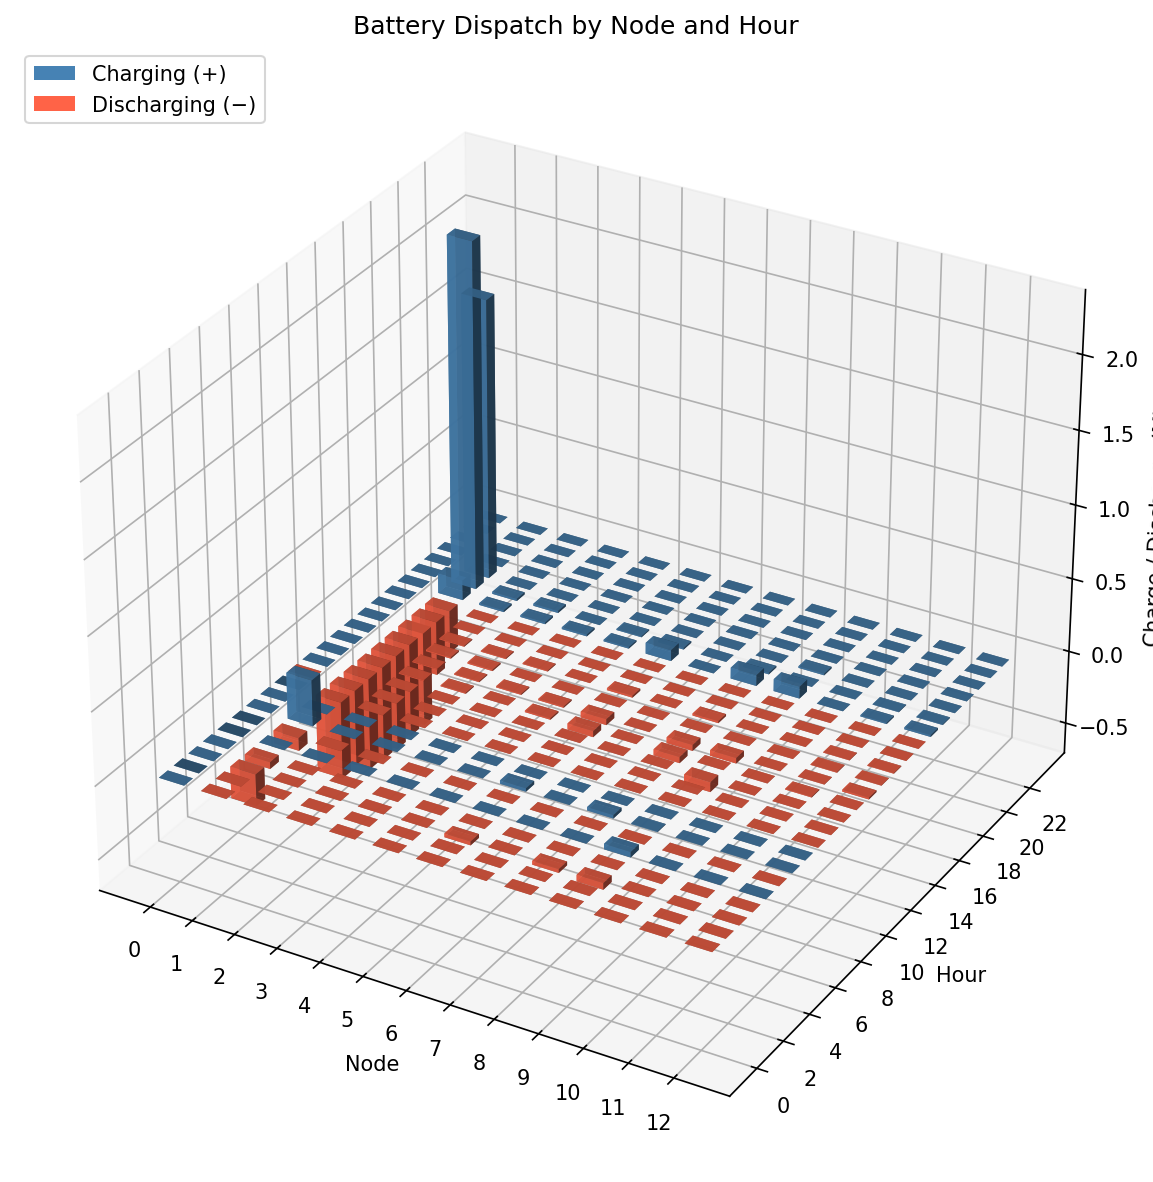
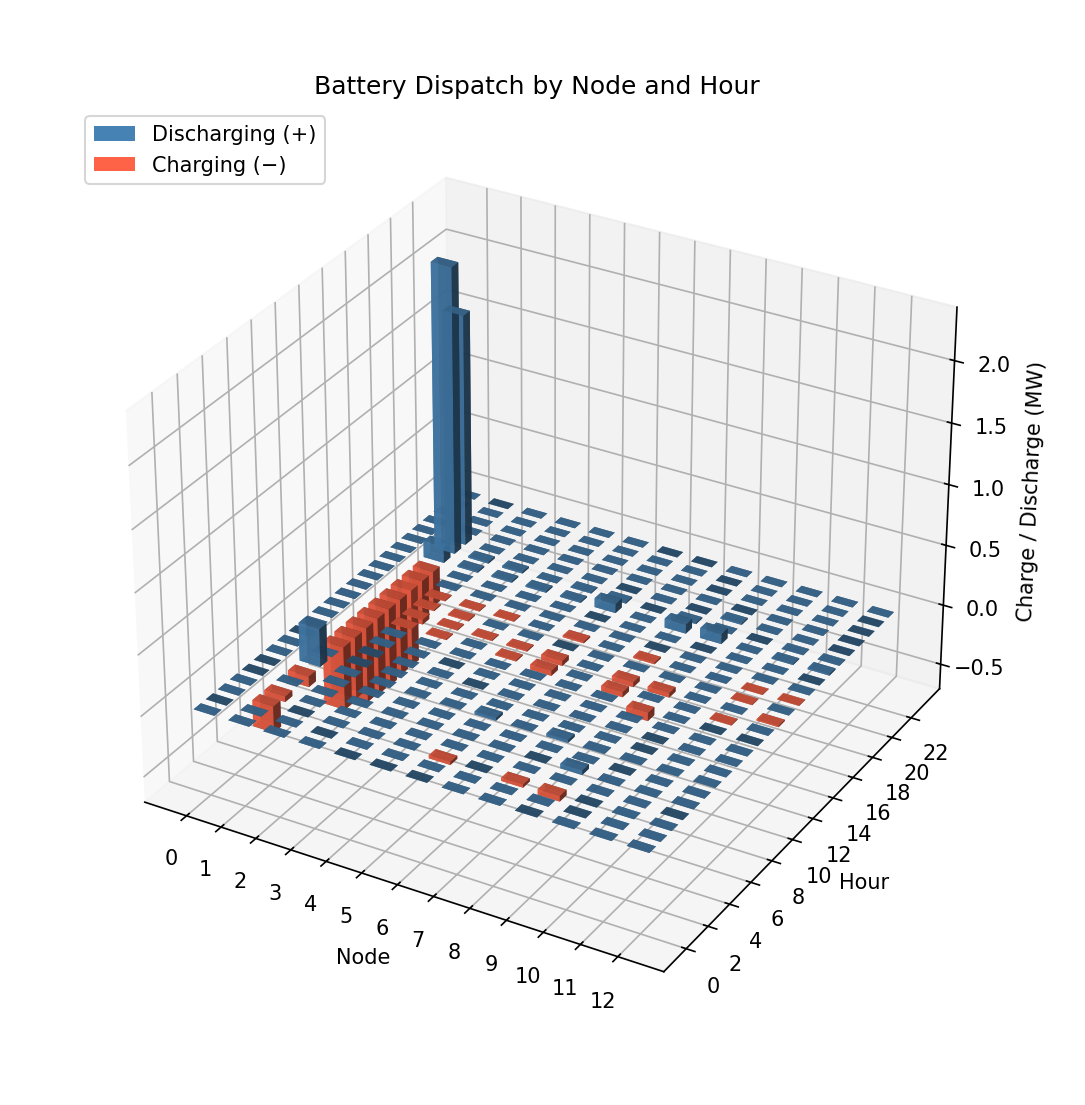
added more graphs

diff --git a/code/Result Visualization/result_functions.py b/code/Result Visualization/result_functions.py
@@ -90,8 +90,8 @@ def plot_capacity_allocation(results_list,OUT_PATH):
     return
 
 
-def plot_battery_dispatch_3d(results_dict,OUT_PATH):
-    """3D bar chart of battery charge/discharge by node (x) and hour (z), value on y-axis.
+def plot_battery_dispatch_3d(results_dict, OUT_PATH, normalize=False, filter_small_nodes=False):
+    """3D bar chart of battery charge/discharge by node (x) and hour (y), value on z-axis.
 
     Charging bars (positive P) are blue; discharging bars (negative P) are red.
     Assumes results['variables']['P^{batt}_{j,t}'] is a list of n_nodes lists,
@@ -99,20 +99,44 @@ def plot_battery_dispatch_3d(results_dict,OUT_PATH):
 
     Args:
         results_dict: single results dict for the scenario to visualise.
+        normalize: if True, each bar shows dispatch as % of that node's capacity.
+        filter_small_nodes: if True, omit nodes whose capacity is <0.1% of total.
     """
+    node_caps = np.array(results_dict['variables']['e^{batt}_{j,max}'])
+    total_cap = float(node_caps.sum())
+
     P_batt = results_dict['variables']['P^{batt}_{j,t}']
-    dispatch = np.array(P_batt)  # shape: (n_nodes, n_hours)
+    dispatch = np.array(P_batt, dtype=float)  # shape: (n_nodes, n_hours)
     n_nodes, n_hours = dispatch.shape
 
-    node_idx, hour_idx = np.meshgrid(np.arange(n_nodes), np.arange(n_hours), indexing='ij')
-    node_flat = node_idx.ravel().astype(float)
-    hour_flat = hour_idx.ravel().astype(float)
+    # Determine which nodes to keep
+    if filter_small_nodes:
+        kept_nodes = [j for j in range(n_nodes) if node_caps[j] / total_cap >= 0.001]
+    else:
+        kept_nodes = list(range(n_nodes))
+
+    dispatch = dispatch[kept_nodes, :]
+    node_caps_kept = node_caps[kept_nodes]
+
+    if normalize:
+        for i, cap in enumerate(node_caps_kept):
+            if cap > 0:
+                dispatch[i, :] = dispatch[i, :] / cap * 100.0
+
+    max_dispatch = np.abs(dispatch).max()
+    if max_dispatch > 0:
+        dispatch[np.abs(dispatch) < 0.001 * max_dispatch] = 0.0
+
+    n_kept = len(kept_nodes)
+    x_positions = np.arange(n_kept, dtype=float)
+    node_idx, hour_idx = np.meshgrid(x_positions, np.arange(n_hours), indexing='ij')
+    node_flat = node_idx.ravel()
+    hour_flat = hour_idx.ravel()
     values_flat = dispatch.ravel()
 
     dx = 0.6
     dy = 0.6
     dz = np.abs(values_flat)
-    # For negative values the bar grows downward: bottom = value, top = 0
     z_bottoms = np.where(values_flat >= 0, 0.0, values_flat)
     colors = ['steelblue' if v >= 0 else 'tomato' for v in values_flat]
 
@@ -129,20 +153,143 @@ def plot_battery_dispatch_3d(results_dict,OUT_PATH):
     )
 
     ax.set_xlabel('Node')
-    ax.set_zlabel('Charge / Discharge (MW)')
     ax.set_ylabel('Hour')
-    ax.set_title('Battery Dispatch by Node and Hour')
-    ax.set_xticks(range(n_nodes))
+    zlabel = '% of Node Capacity Dispatched' if normalize else 'Charge / Discharge (MW)'
+    ax.set_zlabel(zlabel)
+    title_parts = ['Battery Dispatch by Node and Hour']
+    if normalize:
+        title_parts.append('Normalized by Node Capacity')
+    if filter_small_nodes:
+        title_parts.append('Nodes <0.1% Filtered')
+    ax.set_title(' | '.join(title_parts))
+    ax.set_xticks(x_positions)
+    ax.set_xticklabels([str(j) for j in kept_nodes])
     ax.set_yticks(range(0, n_hours, max(1, n_hours // 12)))
 
     legend_elements = [
-        Patch(facecolor='steelblue', label='Charging (+)'),
-        Patch(facecolor='tomato', label='Discharging (−)'),
+        Patch(facecolor='steelblue', label='Discharging (+)'),
+        Patch(facecolor='tomato', label='Charging (−)'),
     ]
     ax.legend(handles=legend_elements, loc='upper left')
+
+    suffix = ('_norm' if normalize else '') + ('_filtered' if filter_small_nodes else '')
+    plt.savefig(OUT_PATH / f'battery_dispatch_3d_cap{total_cap:.0f}MWh{suffix}.png', dpi=150, bbox_inches='tight', pad_inches=0.5)
+    # plt.show()
+    plt.close()
+    return
+
+def plot_transmission_congestion(results_dict, OUT_PATH, filter_small_nodes=False):
+    """3D bar chart of line congestion by node (x) and hour (y), value on z-axis.
+    Assumes results['duals']['thermal_limits'] is a list of n_nodes lists,
+    each of length n_hours, indexed as [node][hour].
+
+    Args:
+        results_dict: single results dict for the scenario to visualise.
+        normalize: if True, each bar shows dispatch as % of that node's capacity.
+        filter_small_nodes: if True, omit nodes whose capacity is <0.1% of total.
+    """
+    node_caps = np.array(results_dict['variables']['e^{batt}_{j,max}'])
+    total_cap = float(node_caps.sum())
+    thermal_duals = results_dict['duals']['thermal_limits']
+    thermal_shadows = np.array(thermal_duals, dtype=float)  # shape: (n_nodes, n_hours)
+    n_nodes, n_hours = thermal_shadows.shape
+
+    # Determine which nodes to keep
+    if filter_small_nodes:
+        kept_nodes = [j for j in range(n_nodes) if max(thermal_shadows[j]) >= 1e-3]
+    else:
+        kept_nodes = list(range(n_nodes))
+
+    thermal_shadows = thermal_shadows[kept_nodes, :]
+
+    max_shadow = np.abs(thermal_shadows).max()
+    if max_shadow > 0:
+        thermal_shadows[np.abs(thermal_shadows) < 0.001] = 0.0
+
+    n_kept = len(kept_nodes)
+    x_positions = np.arange(n_kept, dtype=float)
+    node_idx, hour_idx = np.meshgrid(x_positions, np.arange(n_hours), indexing='ij')
+    node_flat = node_idx.ravel()
+    hour_flat = hour_idx.ravel()
+    values_flat = thermal_shadows.ravel()
+
+    dx = 0.6
+    dy = 0.6
+    dz = np.abs(values_flat)
+    z_bottoms = np.where(values_flat >= 0, 0.0, values_flat)
+    colors = ['steelblue' if v >= 0 else 'tomato' for v in values_flat]
+
+    fig = plt.figure(figsize=(14, 8))
+    ax = fig.add_subplot(111, projection='3d')
+    ax.bar3d(
+        node_flat - dx / 2,
+        hour_flat - dy / 2,
+        z_bottoms,
+        dx, dy, dz,
+        color=colors,
+        alpha=0.85,
+        zsort='average',
+    )
+
+    ax.set_xlabel('Node (#)')
+    ax.set_ylabel('Time (h)')
+    zlabel = 'Thermal Capacity Shadow Price (#)'
+    ax.set_zlabel(zlabel)
+    title_parts = ['Battery Dispatch by Node and Hour']
+    if filter_small_nodes:
+        title_parts.append('Nodes <0.1% Filtered')
+    ax.set_title(' | '.join(title_parts))
+    ax.set_xticks(x_positions)
+    ax.set_xticklabels([str(j) for j in kept_nodes])
+    ax.set_yticks(range(0, n_hours, max(1, n_hours // 12)))
+
+    # legend_elements = [
+    #     Patch(facecolor='steelblue', label='Discharging (+)'),
+    #     Patch(facecolor='tomato', label='Charging (−)'),
+    # ]
+    # ax.legend(handles=legend_elements, loc='upper left')
+
+    suffix = ('_filtered' if filter_small_nodes else '')
+    plt.savefig(OUT_PATH / f'battery_thermal_duals_cap{total_cap:.0f}MWh{suffix}.png', dpi=150, bbox_inches='tight', pad_inches=0.5)
+    # plt.show()
+    plt.close()
+    return
+
+
+def plot_node_dispatch_by_capacity(results_list, node, OUT_PATH, normalize=False):
+    """Line chart of charge/discharge over time for a single node, one line per capacity scenario.
+
+    Args:
+        results_list: list of results dicts, one per JSON file for a given date.
+        node: integer index of the node to plot.
+        OUT_PATH: folder in which to save the figure.
+        normalize: if True, dispatch is shown as % of that node's capacity for each scenario.
+    """
+    sorted_results = sorted(results_list, key=lambda r: sum(r['variables']['e^{batt}_{j,max}']))
+
+    fig, ax = plt.subplots(figsize=(10, 5))
+    for r in sorted_results:
+        total_cap = sum(r['variables']['e^{batt}_{j,max}'])
+        dispatch = np.array(r['variables']['P^{batt}_{j,t}'][node], dtype=float)
+        if normalize:
+            node_cap = r['variables']['e^{batt}_{j,max}'][node]
+            if node_cap > 0:
+                dispatch = dispatch / node_cap * 100.0
+        ax.plot(range(len(dispatch)), dispatch, marker='o', markersize=3,
+                linewidth=1.5, label=f'Cap = {total_cap:.1f}')
+
+    ax.axhline(0, color='black', linewidth=0.8, linestyle='--')
+    ax.set_xlabel('Hour')
+    ax.set_ylabel('% of Node Capacity Dispatched' if normalize else 'Charge / Discharge (MW)')
+    title = f'Battery Dispatch at Node {node} Across Capacity Scenarios'
+    if normalize:
+        title += ' | Normalized by Node Capacity'
+    ax.set_title(title)
+    ax.legend(title='Total Capacity (MWh)', bbox_to_anchor=(1.05, 1), loc='upper left')
+    ax.grid(True, linestyle='--', alpha=0.5)
     plt.tight_layout()
-    total_cap = sum(results_dict['variables']['e^{batt}_{j,max}'])
-    plt.savefig(OUT_PATH / f'battery_dispatch_3d_cap{total_cap:.0f}MWh.png', dpi=150, bbox_inches='tight')
+    norm_suffix = '_norm' if normalize else ''
+    plt.savefig(OUT_PATH / f'node_{node}_dispatch_by_capacity{norm_suffix}.png', dpi=150, bbox_inches='tight')
     # plt.show()
     plt.close()
     return
@@ -155,8 +302,11 @@ def main(date_string):
     results_list = []
     for file in json_files:
         results_dict = get_results_dict(file)
-        plot_battery_dispatch_3d(results_dict,OUT_PATH)
+        plot_battery_dispatch_3d(results_dict,OUT_PATH,normalize=False,filter_small_nodes=False)
+        plot_transmission_congestion(results_dict,OUT_PATH,filter_small_nodes=True)
         results_list.append(results_dict)
+    interestNode = 9
+    plot_node_dispatch_by_capacity(results_list, interestNode, OUT_PATH)
     
     plot_objective_vs_capacity(results_list,OUT_PATH)
     plot_capacity_allocation(results_list,OUT_PATH)
